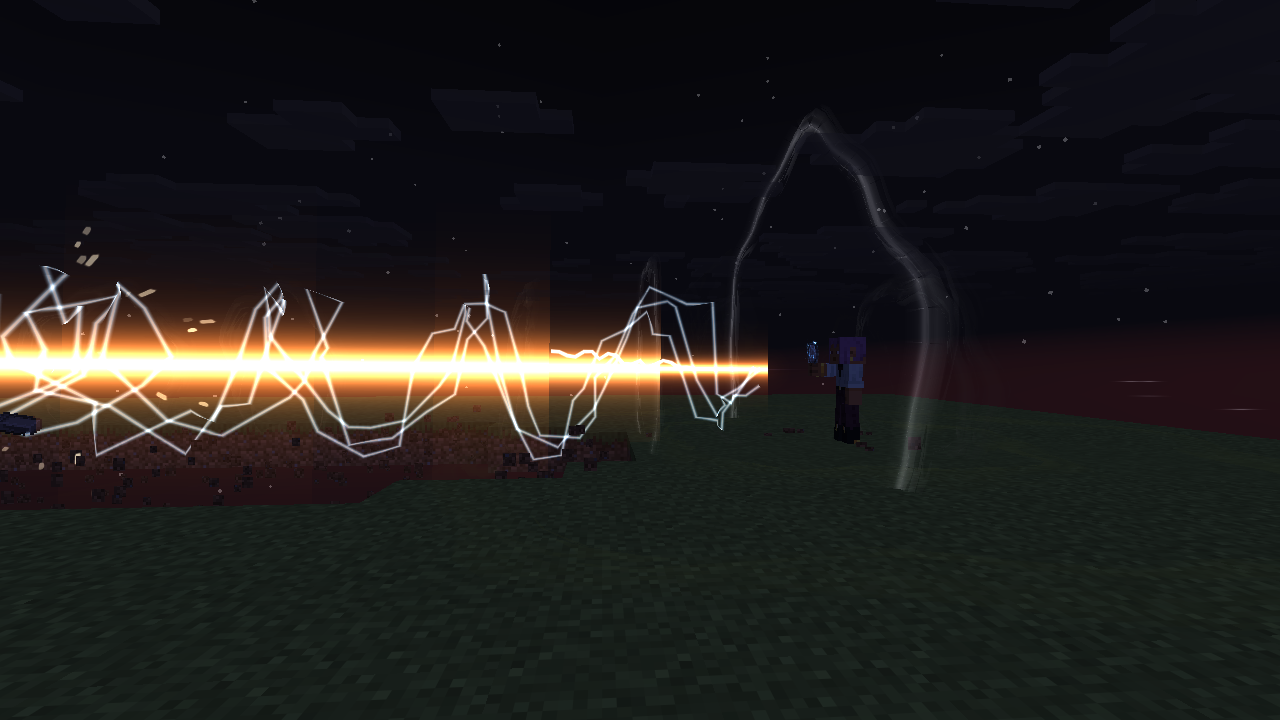
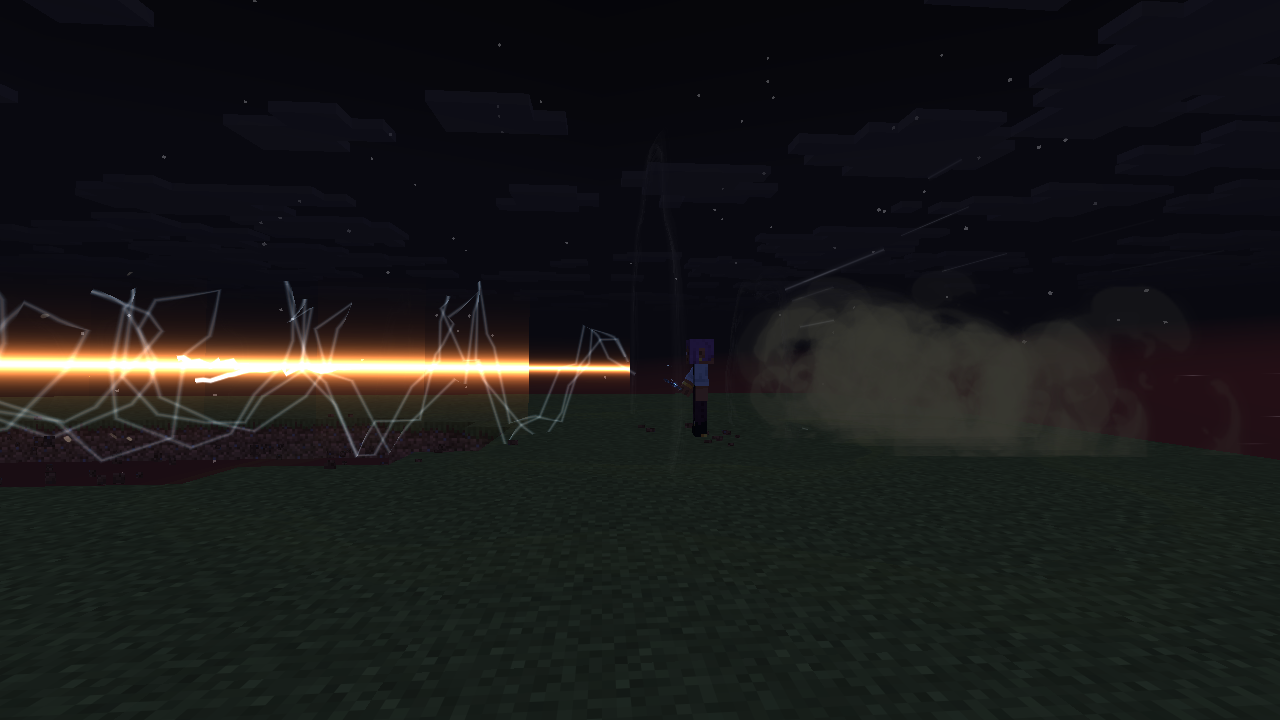
Blast air lines, dust and debris out behind the railgun shooter
发射时角色身后加上冲击：从出口前方起顺着身子四周往后锥形张开的白色气浪线；
往身后喷、边滚大边往两侧散开的尘土团（复用 Logos 物理射线的烟团序列帧，靠近镜头的淡出，
第三人称背面镜头不被糊住）；被气浪掀飞到身后的地面碎块。已有的射线、电弧和冲击环不动。
客户端场景的侧面机位挪近一点，把身后的尘土收进画面。

diff --git a/src/main/java/dev/logos/dimension/client/vfx/RailgunShot.java b/src/main/java/dev/logos/dimension/client/vfx/RailgunShot.java
@@ -35,6 +35,8 @@ final class RailgunShot {
     /** 射线尖端穿过全长的刻数；亮线保持到 HOT，到 AFTER 收成余线，余线在 GONE 前闪完。 */
     private static final float SHOOT = 1.5f, HOT = 9, AFTER = 16, GONE = 64, LIFE = 66;
     private static final float COIL_LIFE = 14, RING_LIFE = 13, RING_SPACING = 3.5f;
+    /** 身后锥形张开的气浪线、往后喷的尘团各有几道。 */
+    private static final int BACK_LINES = 26, DUST = 26;
     private static final int SHEATH = 0xFF6A12, CORE = 0xFFC870, WHITE = 0xFFFBEA, EMBER = 0xFF8A3A, STREAK = 0xFF9A40;
     private static final int SHOCK = 0xF6F8FF, VAPOUR = 0xF2E6DA, AIR_GREY = 0xC8CED6, WIND = 0xE8F0FF, LENS = 0xE6A8FF;
 
@@ -95,9 +97,11 @@ final class RailgunShot {
         // 镜头离出口越近（第一人称自己开炮）越是 0：出口的装饰往前推、收小
         float near = (float) Math.min(1, Math.max(0, (eye.distanceTo(muzzle) - .8) / 3));
         layers.apply(1).submitCustomGeometry(pose, AIR, (p, buf) -> air(p, buf, t, near));
+        layers.apply(1).submitCustomGeometry(pose, SMOKE, (p, buf) -> dust(p, buf, view, t));
         layers.apply(2).submitCustomGeometry(pose, LINE, (p, buf) -> {
             beam(p, buf, t, eye);
             shockEdges(p, buf, t, near, eye);
+            backLines(p, buf, t, eye);
         });
         layers.apply(2).submitCustomGeometry(pose, BOLT, (p, buf) -> lightning(p, buf, t, eye));
         layers.apply(2).submitCustomGeometry(pose, GLOW, (p, buf) -> glows(p, buf, view, t, near));
@@ -149,6 +153,51 @@ final class RailgunShot {
             lineRing(p, buf, ringAt.add(axis.scale(1.4 + 1.2 * e)), axis, .3f + 1.6f * e, .22f, eye, seed + 5, 56,
                     VfxParts.argb((1 - q) * (1 - q) * .8f, SHOCK));
         }
+    }
+
+    /** 气浪线：从出口前方起，顺着身子四周往后呈锥形张开的一道道白线（参考动画里发射时人物身后的线条）。 */
+    private void backLines(PoseStack.Pose p, VertexConsumer buf, float t, Vec3 eye) {
+        Vec3 apex = muzzle.add(axis.scale(.8));
+        for (int i = 0; i < BACK_LINES; i++) {
+            float b = hash(seed, i, 401) * 3, life = 9 + 5 * hash(seed, i, 403), age = t - b;
+            if (age < 0 || age > life) continue;
+            double spread = Math.toRadians(14 + 24 * hash(seed, i, 405)), angle = hash(seed, i, 407) * Math.PI * 2;
+            Vec3 dir = axis.scale(-Math.cos(spread)).add(right.scale(Math.cos(angle) * Math.sin(spread)))
+                    .add(up.scale(Math.sin(angle) * Math.sin(spread)));
+            float q = age / life, reach = 5 + 6 * hash(seed, i, 409);
+            float head = .3f + reach * easeOut(Math.min(1, age / (life * .7f)));
+            float len = (1.5f + 3f * hash(seed, i, 411)) * Math.min(1, age / 2 + .2f) * (1 - .6f * q);
+            Vec3 h = apex.add(dir.scale(head)), tl = apex.add(dir.scale(Math.max(0, head - len)));
+            float a = (float) Math.pow(1 - q, 1.4) * (own ? .35f : .75f) * VfxParts.fade(eye, h.add(tl).scale(.5), 1, 3);
+            band(p, buf, tl, h, eye, .07f + .07f * hash(seed, i, 413), VfxParts.argb(a, WIND));
+        }
+    }
+
+    /** 往后喷的尘土：从脚边和身侧被气浪推出去，一边滚大一边往两侧散开，慢慢淡掉（参考动画）。悬空开炮时没有。 */
+    private void dust(PoseStack.Pose p, VertexConsumer buf, VfxParts.View view, float t) {
+        if (Double.isNaN(ground)) return;
+        Vec3 back = backward(), side = new Vec3(-back.z, 0, back.x);
+        int color = shade(VfxParts.lerpColor(tint, 0xE6E0D6, .75f));
+        for (int i = 0; i < DUST; i++) {
+            float b = hash(seed, i, 501) * 4, life = 18 + 14 * hash(seed, i, 503), age = t - b;
+            if (age < 0 || age > life) continue;
+            float q = age / life, e = easeOut(q), lift = hash(seed, i, 509);
+            double lateral = (hash(seed, i, 505) - .5) * 2, reach = 3 + 6 * hash(seed, i, 507);
+            Vec3 c = new Vec3(feet.x, ground + .2 + 1.3 * lift * lift, feet.z).add(side.scale(lateral * .5))
+                    .add(back.scale(reach * e)).add(side.scale(lateral * reach * .45 * e)).add(0, .6 * e * hash(seed, i, 511), 0);
+            float size = .4f + (1.2f + 1.2f * hash(seed, i, 513)) * e;
+            int frame = Math.min(15, (int) (q * 16));
+            float u0 = (frame % 4) / 4f, v0 = (frame / 4) / 4f;
+            float a = (float) Math.pow(1 - q, 1.6) * .7f * Math.min(1, age / 1.5f) * VfxParts.fade(view.cam(), c, size + 1, size + 4);
+            VfxParts.sprite(p, buf, view, c, size, size, hash(seed, i, 515) * 6.28f, u0, v0, u0 + .25f, v0 + .25f, VfxParts.argb(a, color));
+        }
+    }
+
+    /** 射线反方向在地面上的投影：尘土和碎块往这边喷。 */
+    private Vec3 backward() {
+        Vec3 flat = new Vec3(-axis.x, 0, -axis.z);
+        if (flat.lengthSqr() < 1e-4) flat = new Vec3(-up.x, 0, -up.z);
+        return flat.lengthSqr() < 1e-4 ? new Vec3(1, 0, 0) : flat.normalize();
     }
 
     /** 余线：一根细细的橙线断成几截，一截截闪灭。 */
@@ -372,9 +421,16 @@ final class RailgunShot {
 
     private void particles(Level level) {
         RandomSource r = level.getRandom();
-        // 脚下被掀起的碎块，贴地往四周推开（尘环在 air 里画）
+        // 脚下被掀起的碎块：一部分贴地往四周推开（尘环在 air 里画），更多的被气浪往身后掀飞
         if (!Double.isNaN(ground)) {
             BlockState floor = level.getBlockState(BlockPos.containing(feet.x, ground - .5, feet.z));
+            Vec3 back = backward();
+            if (!floor.isAir()) for (int i = 0; i < 28; i++) {
+                double spread = (r.nextDouble() - .5) * 1.2, v = .45 + r.nextDouble() * .55;
+                Vec3 d = back.add(-back.z * spread, 0, back.x * spread).normalize();
+                level.addParticle(new BlockParticleOption(ParticleTypes.BLOCK, floor), feet.x + (r.nextDouble() - .5) * .8,
+                        ground + .1 + r.nextDouble() * .6, feet.z + (r.nextDouble() - .5) * .8, d.x * v, .2 + r.nextDouble() * .35, d.z * v);
+            }
             if (!floor.isAir()) for (int i = 0; i < 14; i++) {
                 double a = r.nextDouble() * Math.PI * 2, v = .2 + r.nextDouble() * .25;
                 level.addParticle(new BlockParticleOption(ParticleTypes.BLOCK, floor), feet.x + Math.cos(a) * .6, ground + .05,

diff --git a/src/main/java/dev/logos/dimension/client/RailgunView.java b/src/main/java/dev/logos/dimension/client/RailgunView.java
@@ -99,12 +99,12 @@ public class RailgunView implements UIScenario {
             var stand = EntityType.ARMOR_STAND.create(ctx.server().overworld(), EntitySpawnReason.COMMAND);
             stand.setInvisible(true);
             stand.setNoGravity(true);
-            stand.snapTo(4.5, 99.7, -8.5, 0, 0);
+            stand.snapTo(2, 99.7, -9.5, 0, 0);
             ctx.server().overworld().addFreshEntity(stand);
             camera = stand.getId();
         }).waitUntil("机位同步", ctx -> Minecraft.getInstance().level.getEntity(camera) != null)
                 .step("切到侧面", ctx -> Minecraft.getInstance().setCameraEntity(Minecraft.getInstance().level.getEntity(camera)));
-        shot(s, "side", new int[] {4, 12, 20, 26}, new int[] {1, 3, 6, 12, 30});
+        shot(s, "side", new int[] {4, 12, 20, 26}, new int[] {1, 3, 6, 9, 14, 30});
         s.step("回到玩家", ctx -> {
             var mc = Minecraft.getInstance();
             mc.setCameraEntity(mc.player);

diff --git a/src/main/java/dev/logos/dimension/client/vfx/RailgunDraw.java b/src/main/java/dev/logos/dimension/client/vfx/RailgunDraw.java
@@ -27,6 +27,8 @@ final class RailgunDraw {
     static final RenderType GLOW = material("glow", "physical_ray_fx", "physical_ray/glow", "RAY_FLASH", true);
     static final RenderType AIR = material("air", "physical_ray_fx", "physical_ray/air", "RAY_AIR", false);
     static final RenderType BOLT = material("bolt", "lightning_ray_line", "lightning_ray/line", "RAY_LINE", true);
+    /** 往后喷的尘土：Logos 物理射线命中烟团的 4×4 序列帧，半透明。 */
+    static final RenderType SMOKE = VfxParts.blend("physical_ray/smoke");
     /** 抛起的那枚硬币，就用银元的物品贴图。 */
     static final RenderType COIN = VfxParts.cut(LogosDimension.id("textures/item/imperial_silver.png"));
 

diff --git a/docs/RAILGUN.md b/docs/RAILGUN.md
@@ -39,7 +39,8 @@
 - 雷电：发射瞬间三股电弧螺旋缠着射线往前 40 格，岔出几道；余线上残留的电弧明灭；命中处电弧乱爬。
 - 出口：一圈很大的白色冲击环套住手臂，前面跟一圈小的（参考图二、三）；两层音爆锥；十字闪光和横向的淡紫镜头光（参考图四）。
 - 沿线：每 3.5 格一圈被推开的气浪环；四周一道道往前飞的橙色熔流；电火花和云气；贴地掠过时掀起地皮。
-- 角色身上的气浪：从胸口往后掠的音爆锥、两圈往后推的压力环、往后吹过身体的风线；脚下两圈贴地扩散的尘环（按地面方块染色）和往四周推开的扬尘与碎块。
+- 角色身上的气浪：从胸口往后掠的音爆锥、两圈往后推的压力环、往后吹过身体的风线；脚下两圈贴地扩散的尘环（按地面方块染色）。
+- 身后的冲击（参考动画发射时人物身后）：从出口前方起顺着身子四周往后呈锥形张开的白色气浪线；一团团往身后喷、边滚大边往两侧散开的尘土（悬空开炮时没有，靠近镜头的淡出，第三人称背面不糊住画面）；被掀飞到身后的地面碎块。
 - 命中（被挡住时）：大的气浪环、音爆锥、闪光、爆炸烟和往回溅的碎块。
 - 镜头：射手镜头震一下，附近的人轻一点。第一人称看自己开炮时，出口的闪光、环和音爆锥都往前推、收小，不糊住画面。
 
@@ -61,9 +62,9 @@
 
 ## 截图
 
-| 蓄力（侧面，夜） | 发射（侧面，夜） | 余线与残留电弧 |
-| --- | --- | --- |
-| ![](screenshots/railgun/side-charge.png) | ![](screenshots/railgun/side-fire.png) | ![](screenshots/railgun/side-afterline.png) |
+| 蓄力（侧面，夜） | 发射（侧面，夜） | 身后喷出的尘土 | 余线与残留电弧 |
+| --- | --- | --- | --- |
+| ![](screenshots/railgun/side-charge.png) | ![](screenshots/railgun/side-fire.png) | ![](screenshots/railgun/side-dust.png) | ![](screenshots/railgun/side-afterline.png) |
 
 | 蓄力（第一人称） | 打穿的楼和地沟 | 冲击环（第三人称背面，白天） |
 | --- | --- | --- |
